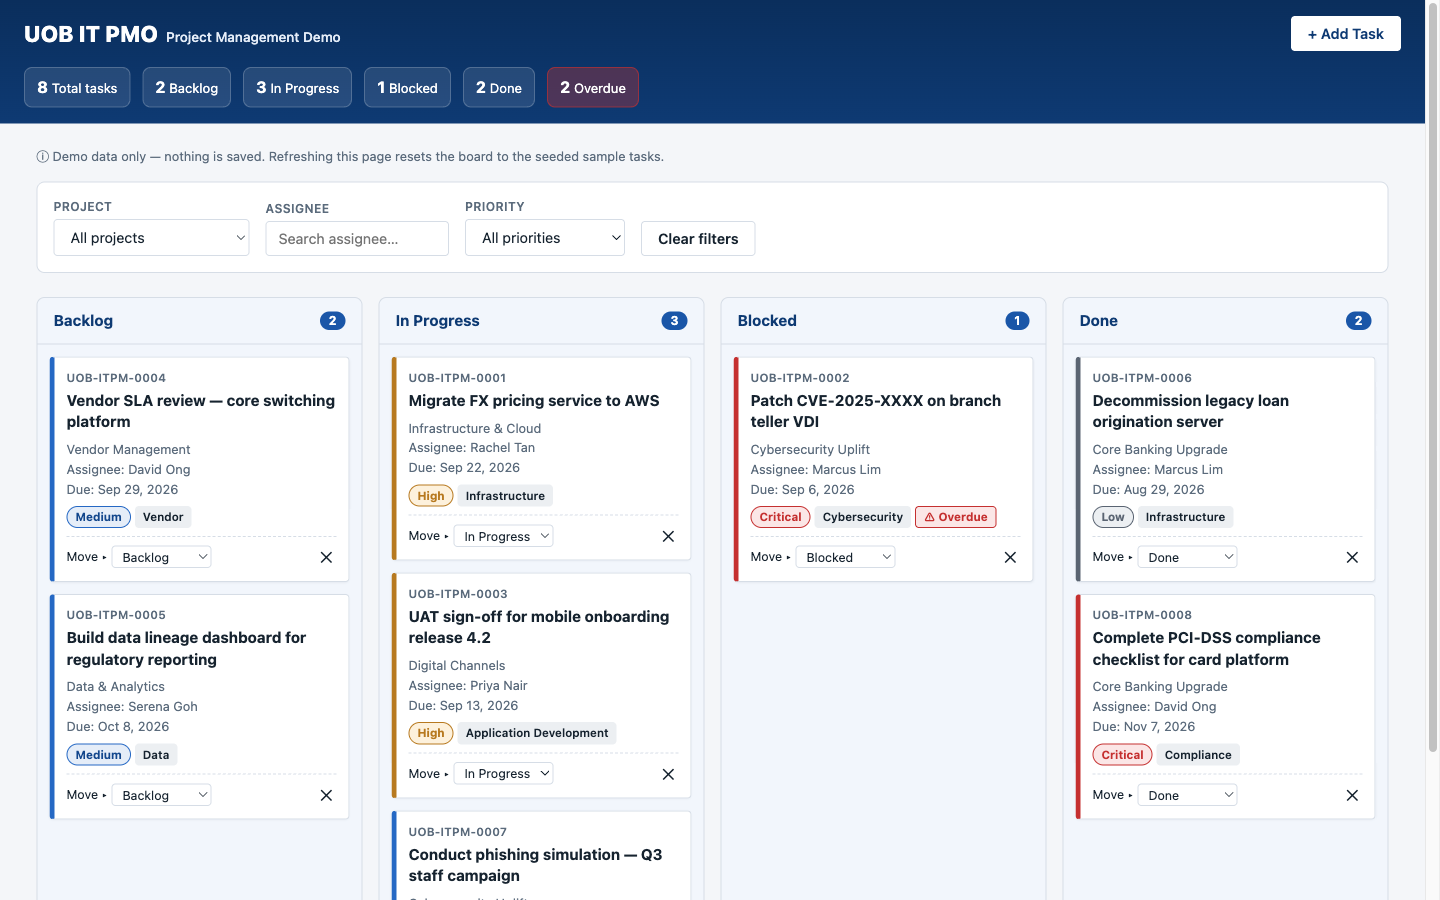
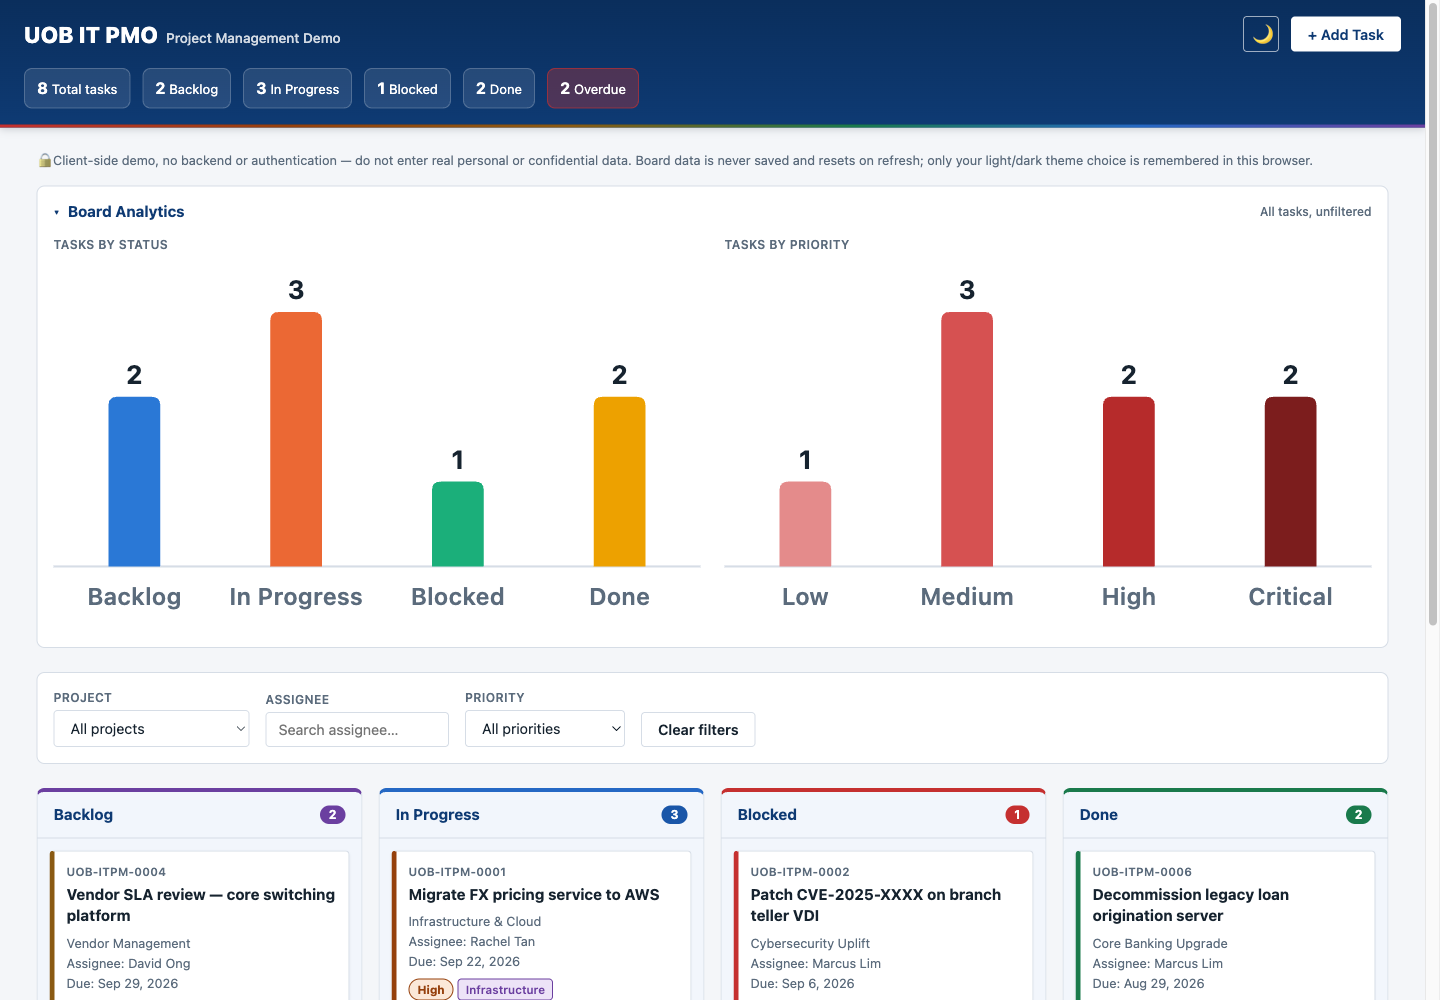
Update README and screenshot for theme toggle, rainbow accents, and analytics panel

diff --git a/README.md b/README.md
@@ -1,8 +1,8 @@
 # IT Project Management Kanban Board
 
-A single-page IT Project Management demo/training tool for UOB's internal IT PMO: a Kanban board (Backlog / In Progress / Blocked / Done) with drag-and-drop, an Add Task modal, filtering, and email notifications via FormSubmit.
+A single-page IT Project Management demo/training tool for UOB's internal IT PMO: a Kanban board (Backlog / In Progress / Blocked / Done) with drag-and-drop, an Add Task modal, filtering, a Board Analytics panel with accessible bar charts, a light/dark theme toggle, and email notifications via FormSubmit.
 
-This is a demo tool, not a real UOB system — it uses a neutral "UOB IT PMO" text wordmark and a corporate blue palette only, no real UOB branding.
+This is a demo tool, not a real UOB system — it uses a neutral "UOB IT PMO" text wordmark, no real UOB branding. The dashboard chrome stays neutral/corporate-blue for readability; a validated rainbow accent system layers on top for Kanban columns, task priority, and category tags.
 
 **Live demo:** https://ianleonardo.github.io/WSQ-itprojmanagement/
 
@@ -22,11 +22,12 @@ There are no tests, linters, or CI configured in this repo.
 
 ## Architecture
 
-Everything — markup, CSS, and JS — lives in `index.html`: a `<style>` block, the DOM skeleton (header, filter bar, board, Add Task modal, toast region), and a `<script>` block. There is no framework, no build tooling, no external requests except the FormSubmit call, and no persistence layer.
+Everything — markup, CSS, and JS — lives in `index.html`: a `<style>` block, the DOM skeleton (header, filter bar, board, Add Task modal, toast region), and a `<script>` block. There is no framework, no build tooling, and no backend — the only network call is to FormSubmit for new-task email notifications.
 
 - Vanilla HTML/CSS/JS only — no frameworks, no bundler, no npm packages.
-- No `localStorage`/`sessionStorage`/`IndexedDB`/cookies. Board state lives only in memory and resets on refresh — this is intentional.
+- Board state (tasks, filters) lives only in memory and resets on refresh — this is intentional. The one exception is the light/dark theme choice, stored under a single scoped `localStorage` key.
 - No external resources — no CDN scripts, no Google Fonts, no image files. Icons are Unicode glyphs or the system font stack.
-- The only network call is to FormSubmit, for email notifications on new tasks.
+- A `Content-Security-Policy` and referrer-policy meta tag scope the page to itself plus the FormSubmit endpoint.
+- Two inline-SVG bar charts (task counts by status and by priority) use a colorblind-safe, contrast-validated palette, each bar directly labeled and with a hover/keyboard-accessible tooltip.
 
-See [CLAUDE.md](CLAUDE.md) for full implementation details.
+See [CLAUDE.md](CLAUDE.md) for full implementation details, including the rainbow accent palette and the contrast/CVD checks behind it.
